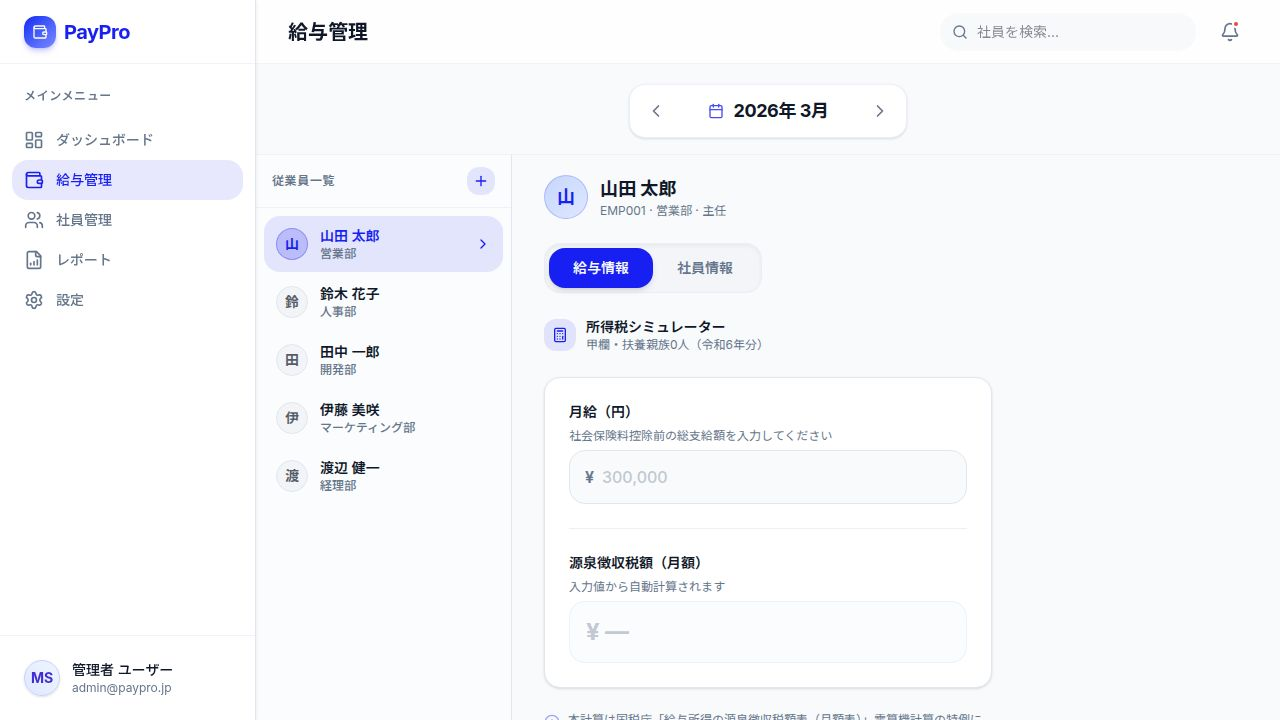
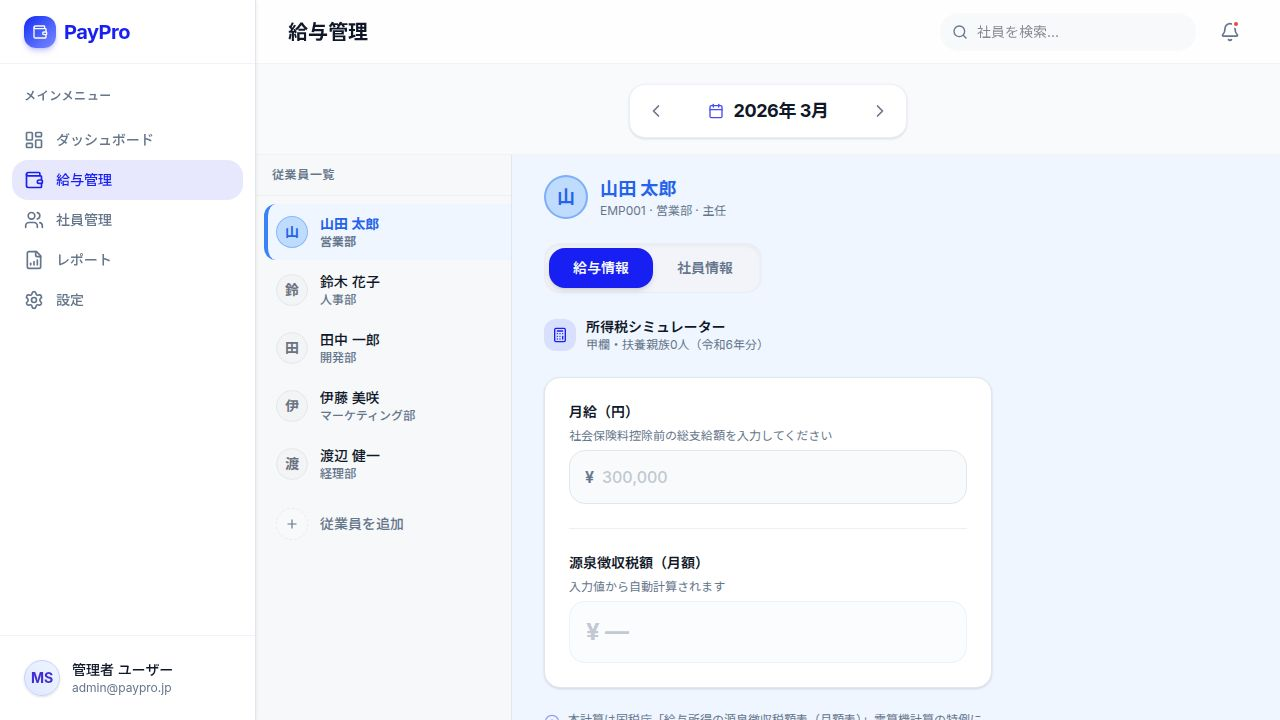
Add distinct accent colors to employee tabs and personalize the interface
Add individual accent colors to employee tabs and update the main content area and employee avatars to reflect the selected employee's color.

Replit-Commit-Author: Agent
Replit-Commit-Session-Id: de454804-7b28-4246-943b-cfc9385987fb
Replit-Commit-Checkpoint-Type: full_checkpoint
Replit-Commit-Event-Id: 9b24b21d-88c4-4abe-91c6-ea934d1609a2
Replit-Commit-Screenshot-Url: https://storage.googleapis.com/screenshot-production-us-central1/2cfd8cae-046b-4b29-b988-4027d5c0b6c7/de454804-7b28-4246-943b-cfc9385987fb/7SK5khS
Replit-Helium-Checkpoint-Created: true

Changed region(s): [[0.1875, 0.3056, 0.3438, 0.7333], [0.4062, 0.2444, 0.5312, 0.3056], [0.2188, 0.2139, 0.2812, 0.275]]

diff --git a/artifacts/payroll-app/src/pages/Dashboard.tsx b/artifacts/payroll-app/src/pages/Dashboard.tsx
@@ -1,11 +1,11 @@
 import { useState } from "react";
 import { AppLayout } from "@/components/layout/AppLayout";
 import { MonthSwitcher } from "@/components/MonthSwitcher";
-import { DUMMY_EMPLOYEE_DATA, EmployeeRecord } from "@/lib/dummy-data";
+import { DUMMY_EMPLOYEE_DATA, EmployeeRecord, EmployeeColor } from "@/lib/dummy-data";
 import { calculateIncomeTax, calcEffectiveRate } from "@/lib/taxCalculator";
 import { cn } from "@/lib/utils";
 import { motion, AnimatePresence } from "framer-motion";
-import { Calculator, ChevronRight, Info, User, Plus, Users } from "lucide-react";
+import { Calculator, Info, User, Plus, Users } from "lucide-react";
 import {
   Dialog,
   DialogContent,
@@ -19,6 +19,29 @@ import {
   SheetContent,
   SheetTitle,
 } from "@/components/ui/sheet";
+
+// ─────────────────────────────────────────────
+// カラーパレット（Tailwind JIT対策でinline styleで使用）
+// ─────────────────────────────────────────────
+
+const COLOR_PALETTE: EmployeeColor[] = ["blue", "green", "rose", "amber", "purple", "teal"];
+
+type ColorTokens = {
+  border: string;
+  bg50: string;
+  bg100: string;
+  text: string;
+  avatar: string;
+};
+
+const COLOR_MAP: Record<EmployeeColor, ColorTokens> = {
+  blue:   { border: "#3b82f6", bg50: "#eff6ff", bg100: "#dbeafe", text: "#2563eb", avatar: "#bfdbfe" },
+  green:  { border: "#22c55e", bg50: "#f0fdf4", bg100: "#dcfce7", text: "#16a34a", avatar: "#bbf7d0" },
+  rose:   { border: "#f43f5e", bg50: "#fff1f2", bg100: "#ffe4e6", text: "#e11d48", avatar: "#fecdd3" },
+  amber:  { border: "#f59e0b", bg50: "#fffbeb", bg100: "#fef3c7", text: "#d97706", avatar: "#fde68a" },
+  purple: { border: "#a855f7", bg50: "#faf5ff", bg100: "#f3e8ff", text: "#9333ea", avatar: "#e9d5ff" },
+  teal:   { border: "#14b8a6", bg50: "#f0fdfa", bg100: "#ccfbf1", text: "#0d9488", avatar: "#99f6e4" },
+};
 
 // ─────────────────────────────────────────────
 // Utility
@@ -164,6 +187,66 @@ interface EmployeeSidebarProps {
   onAfterSelect?: () => void;
 }
 
+// 各タブ項目: hoverをローカルstateで追跡してinline styleに渡す
+function EmployeeTabButton({
+  emp,
+  isSelected,
+  onSelect,
+  onAfterSelect,
+}: {
+  emp: EmployeeRecord;
+  isSelected: boolean;
+  onSelect: (id: string) => void;
+  onAfterSelect?: () => void;
+}) {
+  const [hovered, setHovered] = useState(false);
+  const c = COLOR_MAP[emp.color];
+
+  const bgColor = isSelected
+    ? c.bg50
+    : hovered
+    ? c.bg100
+    : "transparent";
+
+  return (
+    <button
+      onClick={() => { onSelect(emp.id); onAfterSelect?.(); }}
+      onMouseEnter={() => setHovered(true)}
+      onMouseLeave={() => setHovered(false)}
+      className={cn(
+        "w-full flex items-center gap-3 py-2.5 pl-2 pr-3 text-sm text-left transition-colors duration-150",
+        "rounded-l-lg rounded-r-none border-l-4",
+        isSelected ? "relative z-10 mr-[-1px] font-bold" : "font-medium"
+      )}
+      style={{
+        borderLeftColor: isSelected ? c.border : "transparent",
+        backgroundColor: bgColor,
+        color: isSelected ? c.text : undefined,
+      }}
+    >
+      {/* アバター */}
+      <div
+        className="w-8 h-8 rounded-full flex items-center justify-center font-bold text-sm flex-shrink-0 border transition-colors"
+        style={
+          isSelected
+            ? { backgroundColor: c.avatar, borderColor: c.border + "66", color: c.text }
+            : { backgroundColor: "#f3f4f6", borderColor: "#e5e7eb", color: "#6b7280" }
+        }
+      >
+        {emp.name[0]}
+      </div>
+
+      {/* テキスト */}
+      <div className="flex-1 min-w-0">
+        <p className="truncate text-sm" style={{ color: isSelected ? c.text : undefined }}>
+          {emp.name}
+        </p>
+        <p className="text-xs text-muted-foreground truncate">{emp.department}</p>
+      </div>
+    </button>
+  );
+}
+
 function EmployeeSidebarContent({
   employees,
   selectedId,
@@ -178,67 +261,23 @@ function EmployeeSidebarContent({
         <p className="text-xs font-semibold text-muted-foreground uppercase tracking-wider">従業員一覧</p>
       </div>
 
-      {/* Employee list — pr-0 でボタンが右端まで届くようにする */}
+      {/* Employee list */}
       <nav className="flex-1 overflow-y-auto py-2 pl-2 pr-0 space-y-0.5">
-        {employees.map((emp) => {
-          const isSelected = emp.id === selectedId;
-          return (
-            <button
-              key={emp.id}
-              onClick={() => {
-                onSelect(emp.id);
-                onAfterSelect?.();
-              }}
-              className={cn(
-                // 全タブ共通: 左のみ角丸・右は直角でサイドバー境界と揃える
-                "w-full flex items-center gap-3 py-2.5 text-sm transition-all duration-150 text-left",
-                "rounded-l-lg rounded-r-none border-l-4",
-                isSelected
-                  // アクティブ: 白背景・relative+z-10+mr-[-1px] でborder-rを上書き
-                  ? [
-                      "relative z-10",
-                      "bg-background text-primary border-l-primary font-bold",
-                      "mr-[-1px]",           // サイドバーのborder-rに1px食い込む
-                      "pl-2 pr-3",
-                    ].join(" ")
-                  : [
-                      "text-foreground border-l-transparent",
-                      "hover:bg-muted/60 hover:border-l-border/40",
-                      "pl-2 pr-3",
-                    ].join(" ")
-              )}
-            >
-              <div className={cn(
-                "w-8 h-8 rounded-full flex items-center justify-center font-bold text-sm flex-shrink-0 border transition-colors",
-                isSelected
-                  ? "bg-primary/20 text-primary border-primary/30"
-                  : "bg-background/80 text-foreground/70 border-border"
-              )}>
-                {emp.name[0]}
-              </div>
-              <div className="flex-1 min-w-0">
-                <p className={cn(
-                  "truncate text-sm",
-                  isSelected ? "font-bold text-primary" : "font-medium text-foreground"
-                )}>
-                  {emp.name}
-                </p>
-                <p className="text-xs text-muted-foreground truncate">{emp.department}</p>
-              </div>
-            </button>
-          );
-        })}
+        {employees.map((emp) => (
+          <EmployeeTabButton
+            key={emp.id}
+            emp={emp}
+            isSelected={emp.id === selectedId}
+            onSelect={onSelect}
+            onAfterSelect={onAfterSelect}
+          />
+        ))}
 
-        {/* 従業員追加ボタン — リスト末尾・他タブと同幅・同左揃え */}
+        {/* 従業員追加ボタン */}
         <div className="pt-1 pb-2">
           <button
             onClick={onAddClick}
-            className={cn(
-              "w-full flex items-center gap-3 pl-2 pr-3 py-2.5",
-              "rounded-l-lg rounded-r-none border-l-4 border-l-transparent",
-              "text-sm font-medium text-muted-foreground",
-              "hover:bg-muted/60 hover:text-foreground transition-all duration-150"
-            )}
+            className="w-full flex items-center gap-3 pl-2 pr-3 py-2.5 rounded-l-lg rounded-r-none border-l-4 border-l-transparent text-sm font-medium text-muted-foreground hover:bg-muted/60 hover:text-foreground transition-all duration-150"
           >
             <div className="w-8 h-8 rounded-full flex items-center justify-center border border-dashed border-border/70 bg-background/60 flex-shrink-0">
               <Plus className="w-3.5 h-3.5" />
@@ -273,6 +312,7 @@ export default function Dashboard() {
   const [newPosition, setNewPosition] = useState("");
 
   const selectedEmployee = employees.find((e) => e.id === selectedEmployeeId) ?? employees[0];
+  const selectedColor = COLOR_MAP[selectedEmployee.color];
 
   const handleSelectEmployee = (id: string) => {
     setSelectedEmployeeId(id);
@@ -297,6 +337,9 @@ export default function Dashboard() {
     const empNumber = `EMP${String(maxNum + 1).padStart(3, "0")}`;
     const newId = `e_${Date.now()}`;
 
+    // カラーパレットを順番に循環して割り当て
+    const nextColor = COLOR_PALETTE[employees.length % COLOR_PALETTE.length];
+
     const newEmployee: EmployeeRecord = {
       id: newId,
       employeeNumber: empNumber,
@@ -305,6 +348,7 @@ export default function Dashboard() {
       position: newPosition.trim() || "未設定",
       joinDate: todayJP(),
       status: "在籍中",
+      color: nextColor,
     };
 
     setEmployees((prev) => [...prev, newEmployee]);
@@ -353,8 +397,11 @@ export default function Dashboard() {
             <EmployeeSidebarContent {...sidebarProps} />
           </aside>
 
-          {/* 詳細エリア */}
-          <div className="flex-1 overflow-y-auto">
+          {/* 詳細エリア — 選択中従業員の色でごく薄く染める */}
+          <div
+            className="flex-1 overflow-y-auto transition-colors duration-300"
+            style={{ backgroundColor: selectedColor.bg50 }}
+          >
             <AnimatePresence mode="wait">
               <motion.div
                 key={selectedEmployeeId}
@@ -367,11 +414,23 @@ export default function Dashboard() {
 
                   {/* 従業員ヘッダー */}
                   <div className="flex items-center gap-3 mb-6">
-                    <div className="w-11 h-11 rounded-full bg-gradient-to-br from-primary/20 to-indigo-100 text-primary flex items-center justify-center font-bold text-lg border border-primary/20 flex-shrink-0">
+                    <div
+                      className="w-11 h-11 rounded-full flex items-center justify-center font-bold text-lg border-2 flex-shrink-0 transition-colors duration-300"
+                      style={{
+                        backgroundColor: selectedColor.avatar,
+                        borderColor: selectedColor.border + "80",
+                        color: selectedColor.text,
+                      }}
+                    >
                       {selectedEmployee.name[0]}
                     </div>
                     <div>
-                      <h2 className="text-lg font-bold text-foreground">{selectedEmployee.name}</h2>
+                      <h2
+                        className="text-lg font-bold transition-colors duration-300"
+                        style={{ color: selectedColor.text }}
+                      >
+                        {selectedEmployee.name}
+                      </h2>
                       <p className="text-xs text-muted-foreground">
                         {selectedEmployee.employeeNumber} &middot; {selectedEmployee.department} &middot; {selectedEmployee.position}
                       </p>

diff --git a/artifacts/payroll-app/src/lib/dummy-data.ts b/artifacts/payroll-app/src/lib/dummy-data.ts
@@ -1,5 +1,6 @@
 export type PayrollStatus = "確定済み" | "未確定";
 export type EmployeeStatus = "在籍中" | "休職中" | "退職";
+export type EmployeeColor = "blue" | "green" | "rose" | "amber" | "purple" | "teal";
 
 export interface PayrollRecord {
   id: string;
@@ -21,6 +22,7 @@ export interface EmployeeRecord {
   joinDate: string;
   status: EmployeeStatus;
   avatarUrl?: string;
+  color: EmployeeColor;
 }
 
 export const DUMMY_PAYROLL_DATA: PayrollRecord[] = [
@@ -32,9 +34,9 @@ export const DUMMY_PAYROLL_DATA: PayrollRecord[] = [
 ];
 
 export const DUMMY_EMPLOYEE_DATA: EmployeeRecord[] = [
-  { id: "e1", employeeNumber: "EMP001", name: "山田 太郎", department: "営業部", position: "主任", joinDate: "2019年04月01日", status: "在籍中" },
-  { id: "e2", employeeNumber: "EMP002", name: "鈴木 花子", department: "人事部", position: "リーダー", joinDate: "2020年07月15日", status: "在籍中" },
-  { id: "e3", employeeNumber: "EMP003", name: "田中 一郎", department: "開発部", position: "マネージャー", joinDate: "2018年01月10日", status: "在籍中" },
-  { id: "e4", employeeNumber: "EMP004", name: "伊藤 美咲", department: "マーケティング部", position: "スタッフ", joinDate: "2022年10月01日", status: "在籍中" },
-  { id: "e5", employeeNumber: "EMP005", name: "渡辺 健一", department: "経理部", position: "リーダー", joinDate: "2017年06月01日", status: "在籍中" },
+  { id: "e1", employeeNumber: "EMP001", name: "山田 太郎", department: "営業部", position: "主任", joinDate: "2019年04月01日", status: "在籍中", color: "blue" },
+  { id: "e2", employeeNumber: "EMP002", name: "鈴木 花子", department: "人事部", position: "リーダー", joinDate: "2020年07月15日", status: "在籍中", color: "green" },
+  { id: "e3", employeeNumber: "EMP003", name: "田中 一郎", department: "開発部", position: "マネージャー", joinDate: "2018年01月10日", status: "在籍中", color: "rose" },
+  { id: "e4", employeeNumber: "EMP004", name: "伊藤 美咲", department: "マーケティング部", position: "スタッフ", joinDate: "2022年10月01日", status: "在籍中", color: "amber" },
+  { id: "e5", employeeNumber: "EMP005", name: "渡辺 健一", department: "経理部", position: "リーダー", joinDate: "2017年06月01日", status: "在籍中", color: "purple" },
 ];
